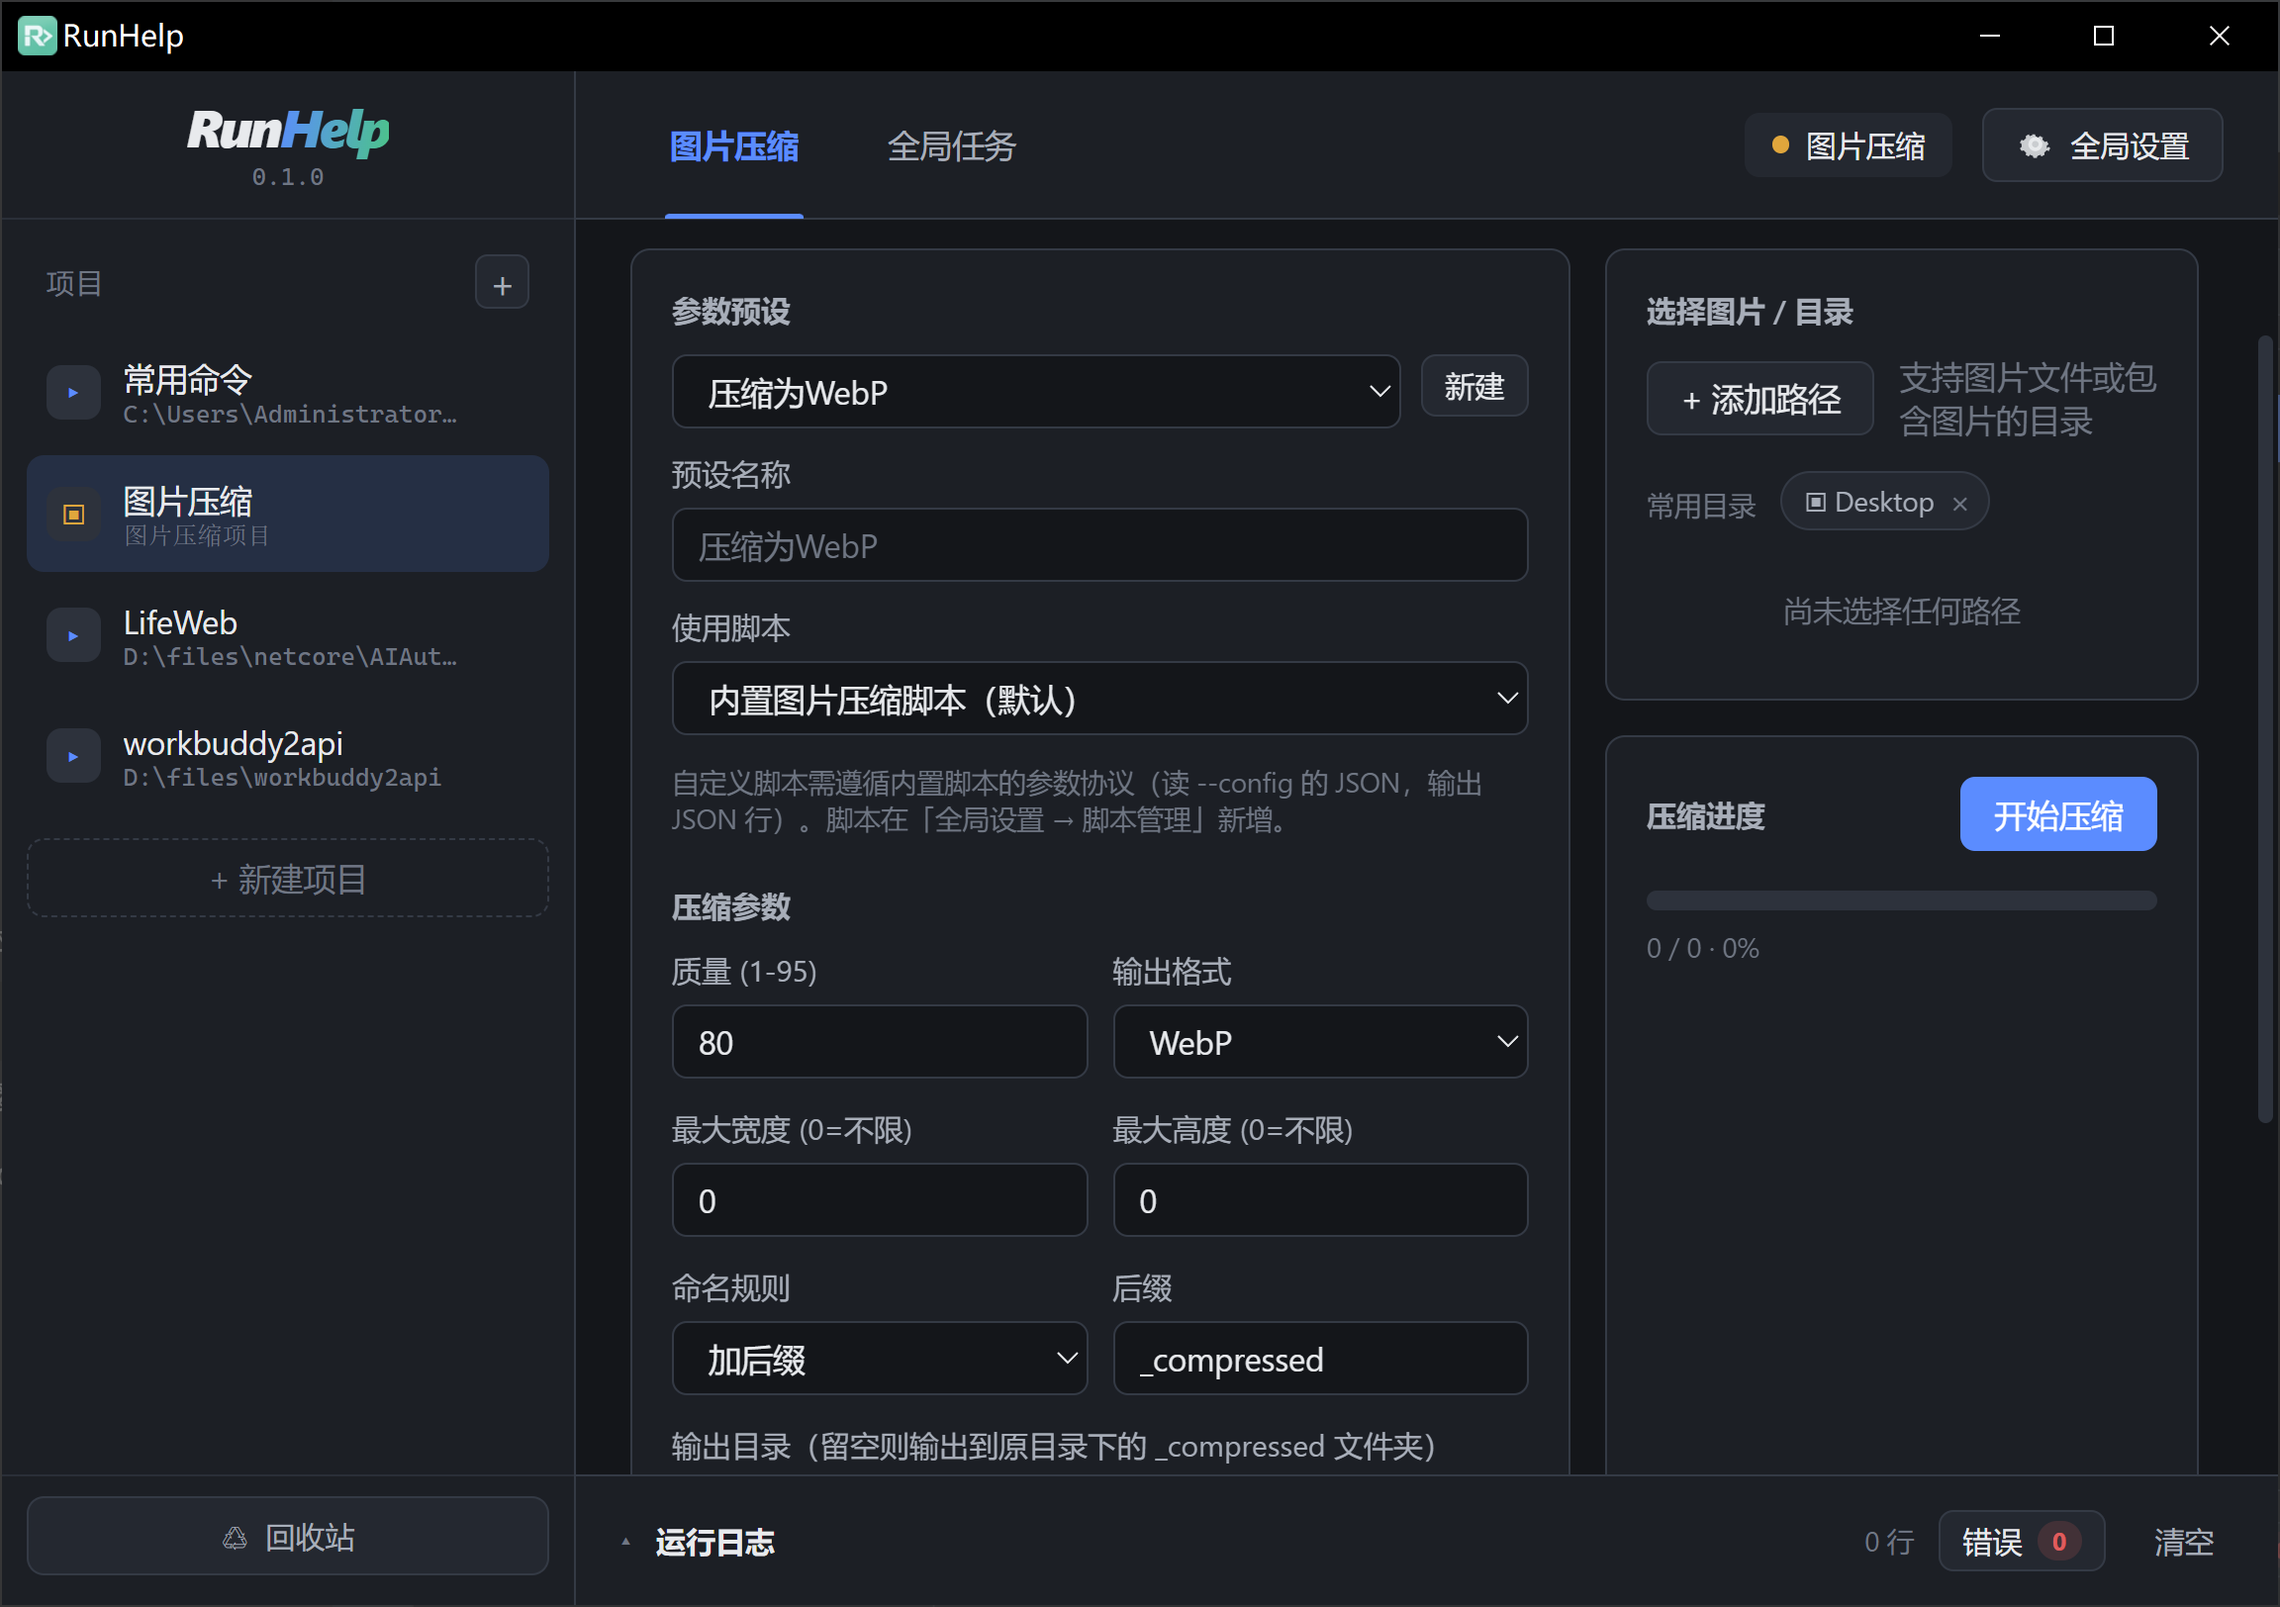
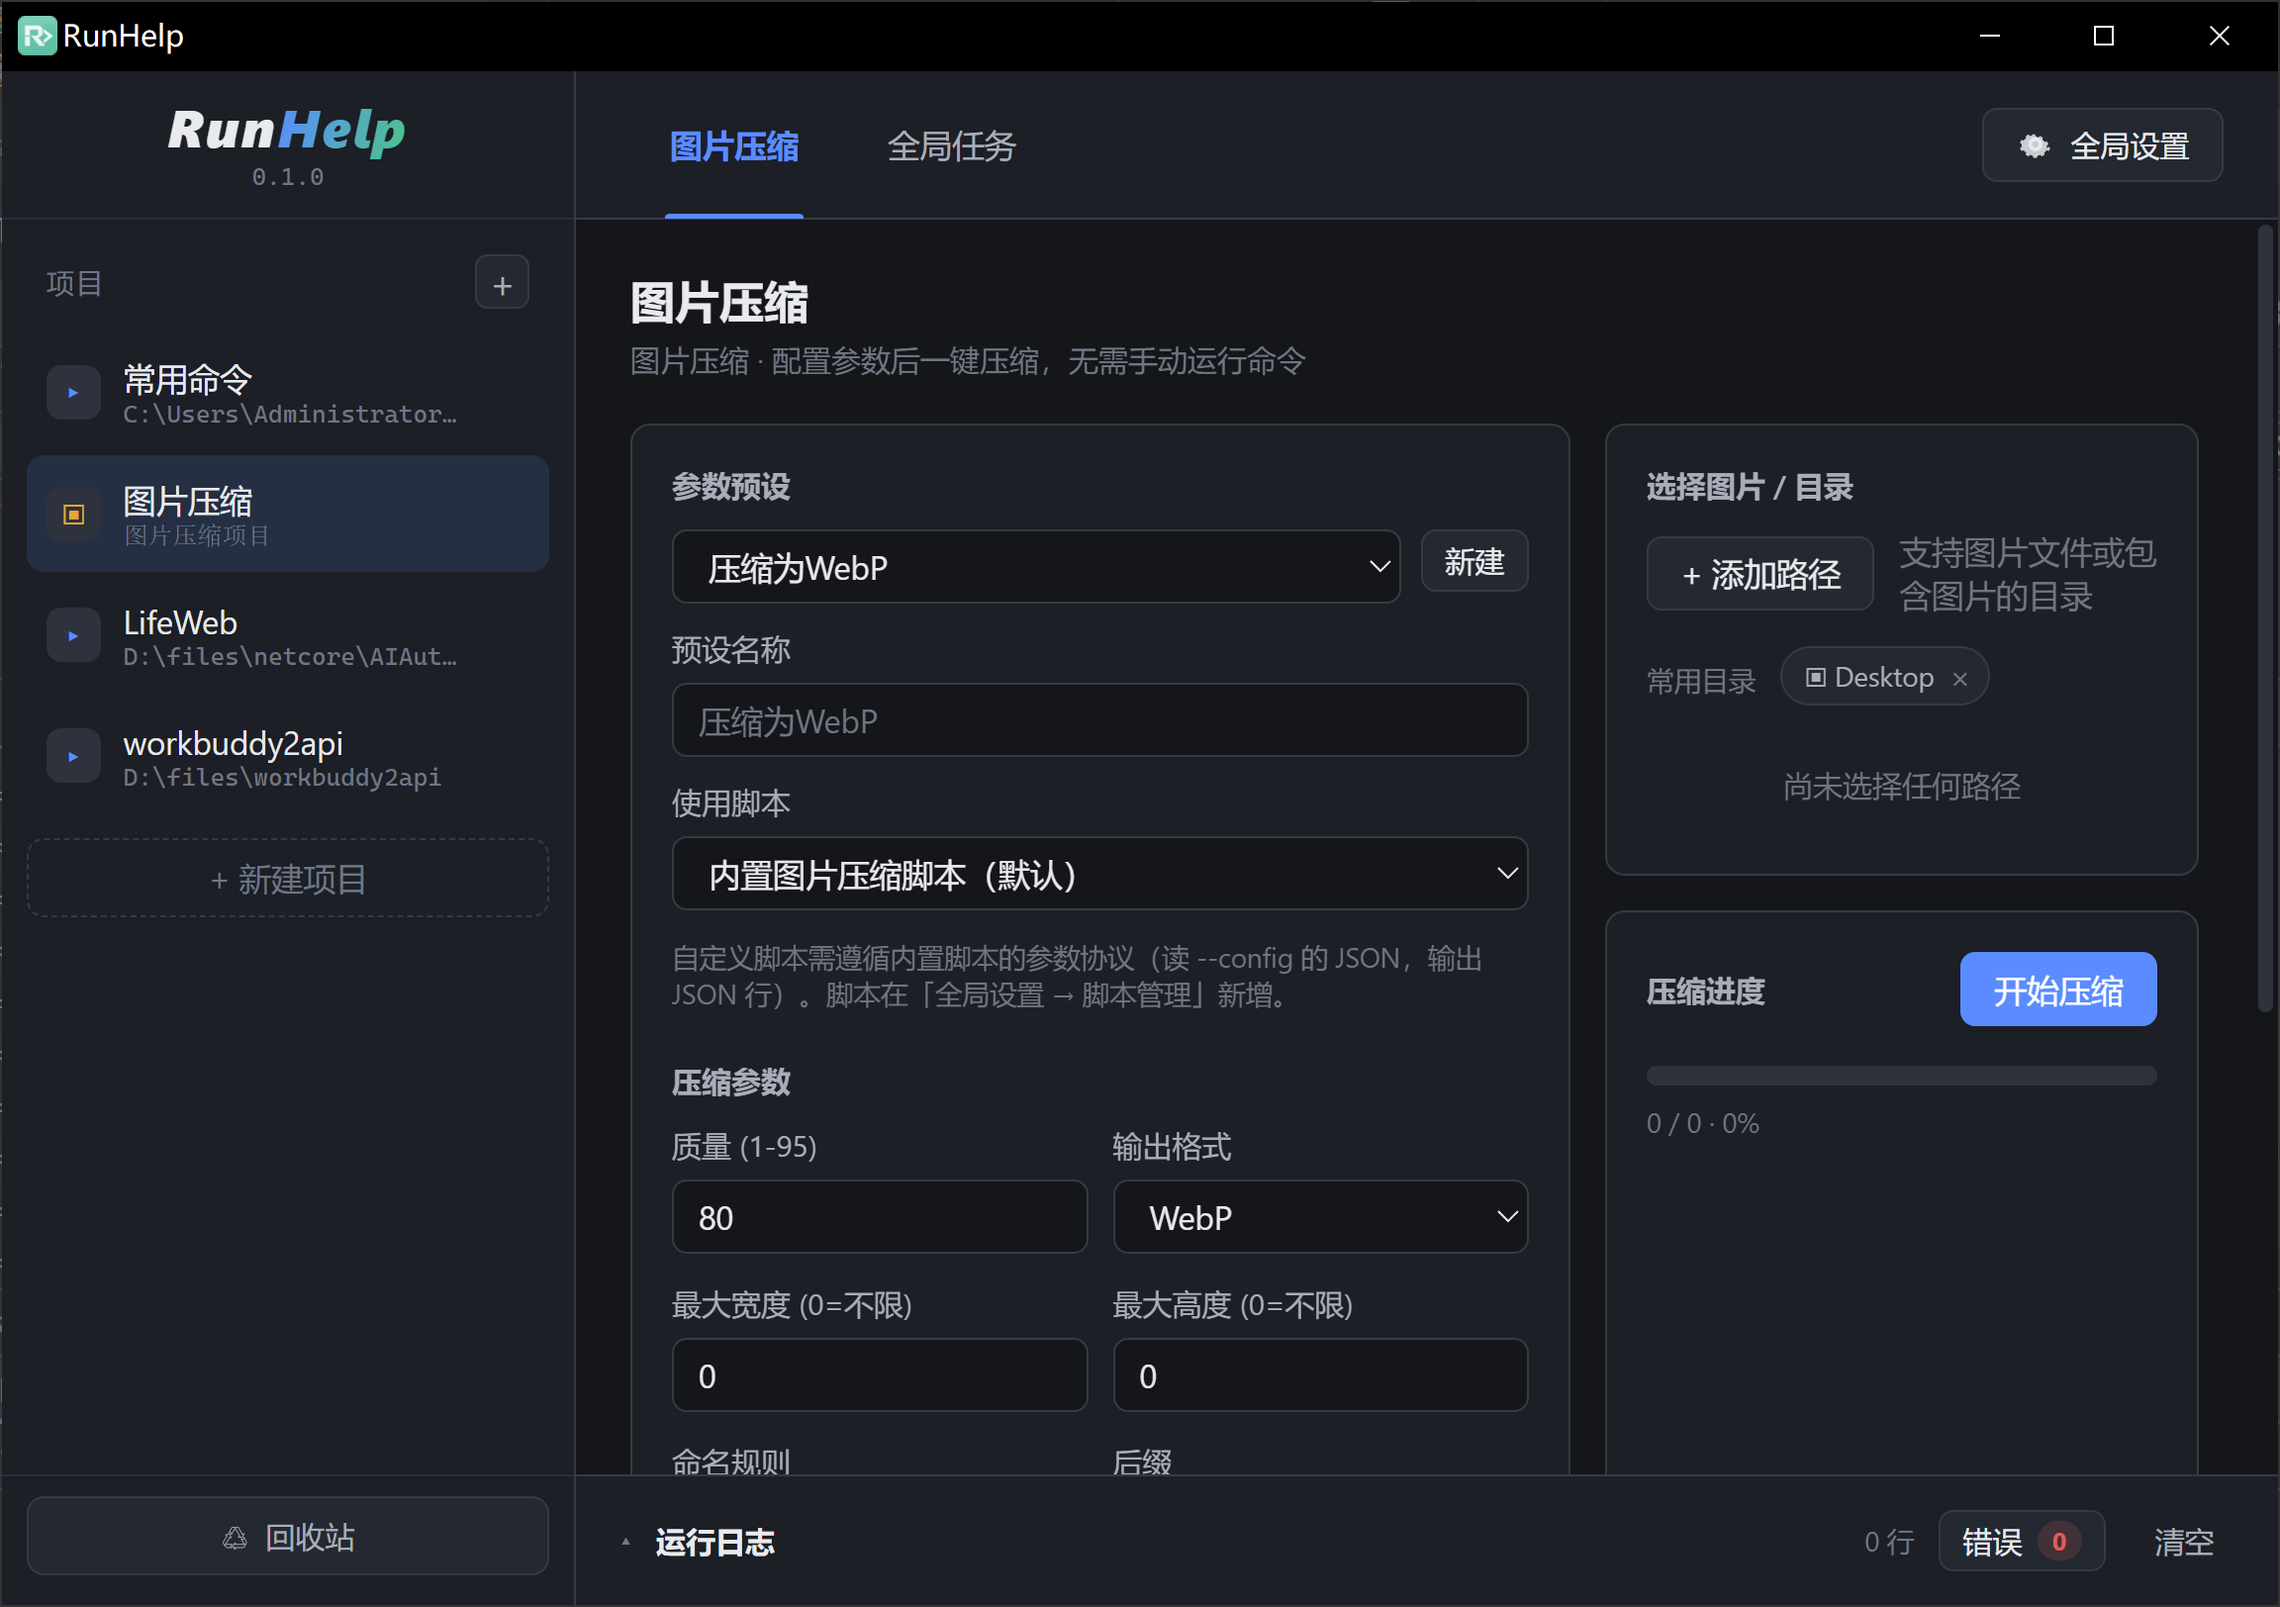
feat: 精简设置页文案并更新软件截图

diff --git a/src/components/SettingsView.vue b/src/components/SettingsView.vue
@@ -201,13 +201,9 @@ async function pickPython() {
         </button>
       </div>
       <div class="field" style="margin-bottom: 12px">
-        <label>当前数据库文件（只读）</label>
+        <label>当前数据库文件</label>
         <div class="path-box mono">{{ dbLocation?.current || dataDir }}</div>
-        <span class="muted hint">全部项目、命令、脚本、预设与运行记录都在这一个文件里。换电脑或同步数据请用下方备份文件，不要直接搬动它。</span>
       </div>
-      <span class="muted hint" style="margin-bottom: 12px">
-        内置备份脚本存在数据库里（可在下方「脚本管理」查看/修改），点「立即备份」即可，不依赖任何外部文件路径。备份进度在「运行日志」页查看。
-      </span>
       <div class="field">
         <label>备份目录</label>
         <div class="row">
@@ -216,7 +212,7 @@ async function pickPython() {
           <button class="btn" @click="loadBackups">刷新列表</button>
         </div>
         <span class="muted hint">
-          备份脚本和恢复功能共用这个目录，两边始终一致。留空时用默认坚果云目录。点「立即备份」前请先保存这里。
+          备份脚本和恢复功能共用这个目录。
         </span>
       </div>
       <div class="backup-list" style="margin-top: 14px">
